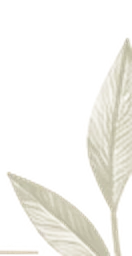
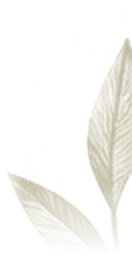
Desvanece el borde interior de las hojas
En la maqueta seguían debajo del buscador y los chips, así que al recortarlas
quedaban cortadas en seco.

Changed region(s): [[0.2121, 0.7812, 0.9394, 1.0], [0.0606, 0.6562, 0.1818, 0.8125], [0.0, 0.9688, 0.303, 1.0]]

diff --git a/index.html b/index.html
@@ -32,7 +32,7 @@
 <link rel="preconnect" href="https://fonts.googleapis.com">
 <link rel="preconnect" href="https://fonts.gstatic.com" crossorigin>
 <link href="https://fonts.googleapis.com/css2?family=Playfair+Display:wght@500;600&family=Karla:wght@400;500;600&display=swap" rel="stylesheet">
-<link rel="stylesheet" href="css/estilos.css?v=20260905k">
+<link rel="stylesheet" href="css/estilos.css?v=20260905l">
 </head>
 <body>
 
@@ -178,7 +178,7 @@
 
 <div class="toast" id="toast" role="status" aria-live="polite"></div>
 
-<script src="js/datos.js?v=20260905k"></script>
-<script src="js/app.js?v=20260905k"></script>
+<script src="js/datos.js?v=20260905l"></script>
+<script src="js/app.js?v=20260905l"></script>
 </body>
 </html>

diff --git a/css/estilos.css b/css/estilos.css
@@ -315,12 +315,12 @@ main{min-height:60vh;padding-bottom:40px}
    la rama ocupa el 15 % del ancho y el ramito de la derecha el 8 %. */
 .cat-cabecera::before{
   left:0;top:0;width:15%;max-width:92px;aspect-ratio:125/166;
-  background-image:url("../assets/hojas-izq.webp?v=1");
+  background-image:url("../assets/hojas-izq.webp?v=2");
   background-position:left top;
 }
 .cat-cabecera::after{
   right:0;top:42%;width:8%;max-width:48px;aspect-ratio:66/128;
-  background-image:url("../assets/hojas-der.webp?v=1");
+  background-image:url("../assets/hojas-der.webp?v=2");
   background-position:right top;
 }
 .seccion.catalogo{padding-top:0}

diff --git a/CLAUDE.md b/CLAUDE.md
@@ -385,7 +385,10 @@ Juani pasó `maquetafondocatalogo.PNG`. De ahí salieron, medidos sobre la image
   lo marrón (líneas y texto) filtrando `r - b > 35` con `r < 200`. Van en
   `.cat-cabecera::before/::after`, medidas **en proporción** (15 % y 8 % del ancho): la
   primera vez se usaron los píxeles de la captura como si fueran píxeles de pantalla y
-  quedaron al doble de tamaño.
+  quedaron al doble de tamaño. En la maqueta las hojas seguían por debajo del buscador y
+  de los chips, así que **el borde de adentro va desvanecido** (rampa de alfa al recortar):
+  si se corta en seco se nota. Los bordes que tocan el costado de la pantalla sí se cortan,
+  y está bien: se leen como que siguen fuera de cuadro.
 - La fila de abajo de la franja (`.orden-fila`) lleva "N productos" a la izquierda y el
   orden a la derecha, separada por una línea, como en la maqueta.
 
